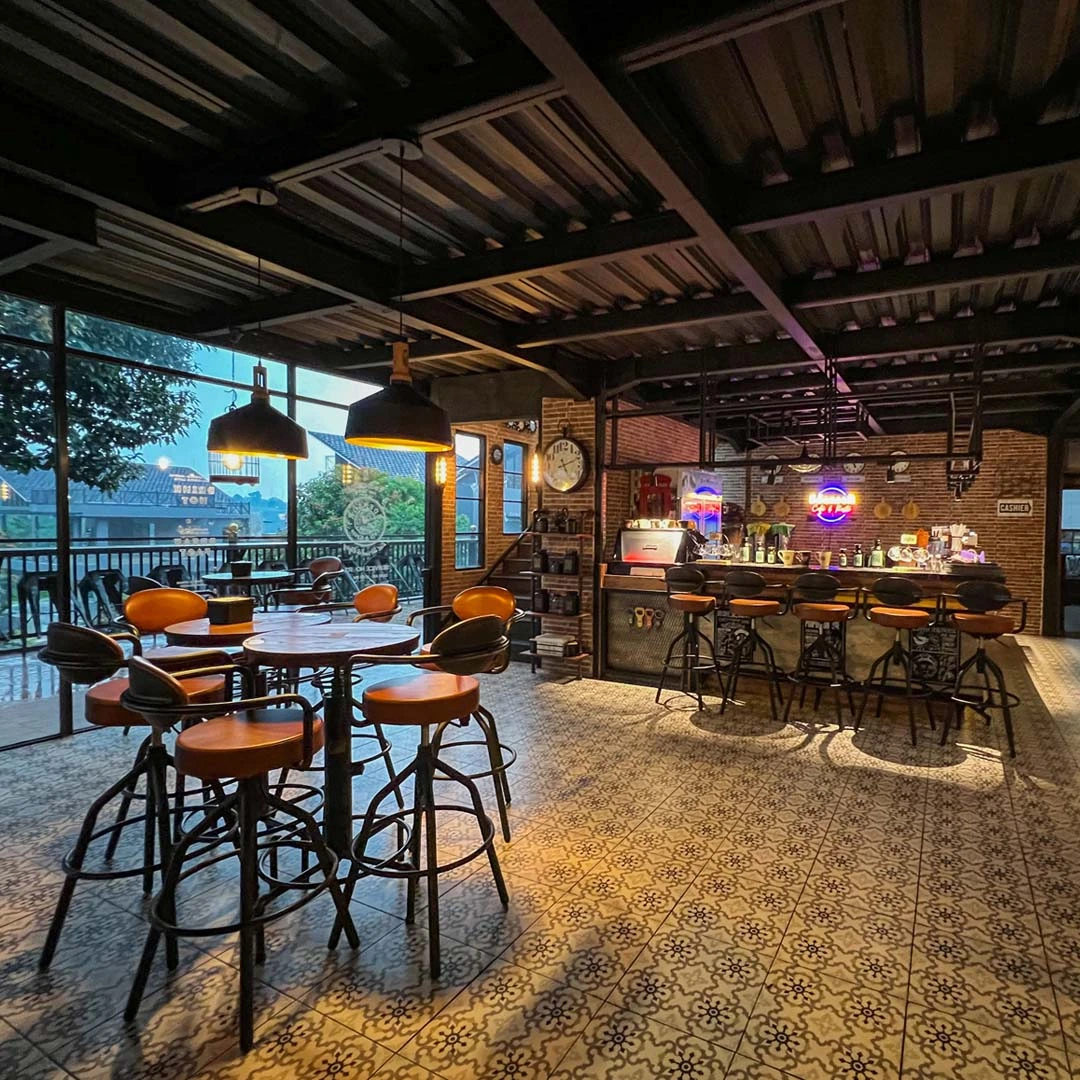
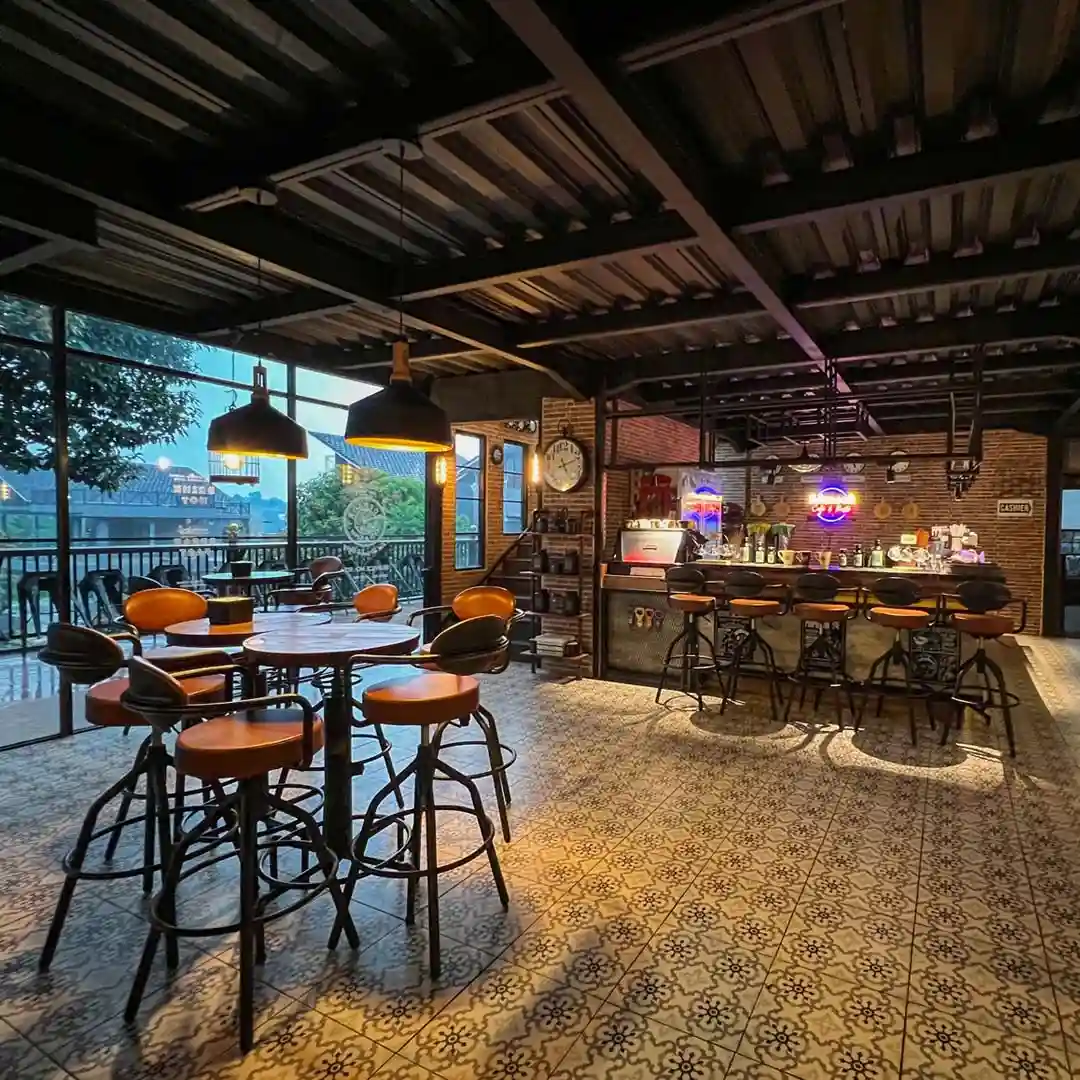
resize img

diff --git a/index.html b/index.html
@@ -180,7 +180,7 @@ html,body{max-width:100%;overflow-x:hidden}
                 </div>
                 <div class="relative mt-8 lg:mt-0">
                     <div class="absolute -inset-4 bg-gradient-to-r from-amber-400 to-orange-400 rounded-3xl opacity-20 blur-2xl"></div>
-                    <img src="../img/bg.webp" alt="Chef" class="relative rounded-2xl sm:rounded-3xl shadow-2xl w-full">
+                    <img src="../img/bg.jpg" alt="Chef" class="relative rounded-2xl sm:rounded-3xl shadow-2xl w-full">
                 </div>
             </div>
         </div>
@@ -277,7 +277,7 @@ html,body{max-width:100%;overflow-x:hidden}
                     </div>
                 </div>
                 <div class="relative group overflow-hidden rounded-2xl sm:rounded-3xl shadow-xl hover-lift h-48 sm:h-64 lg:h-80">
-                    <img src="../img/galerry2.webp" alt="Table setting" class="w-full h-full object-cover">
+                    <img src="../img/galerry2.jpg" alt="Table setting" class="w-full h-full object-cover">
                     <div class="absolute inset-0 bg-gradient-to-t from-black/70 to-transparent opacity-0 group-hover:opacity-100 transition-opacity duration-300 flex items-end p-4 sm:p-6">
                         <p class="text-white font-semibold text-sm sm:text-base lg:text-lg">Perfect Settings</p>
                     </div>
